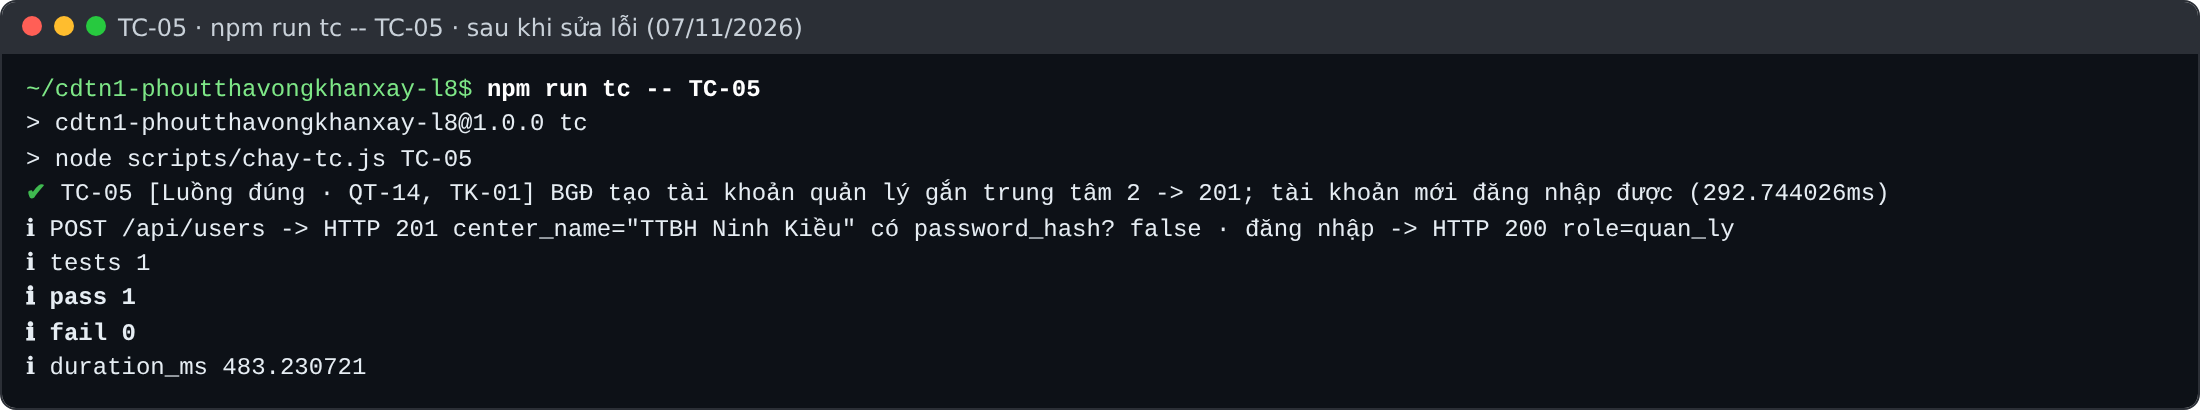
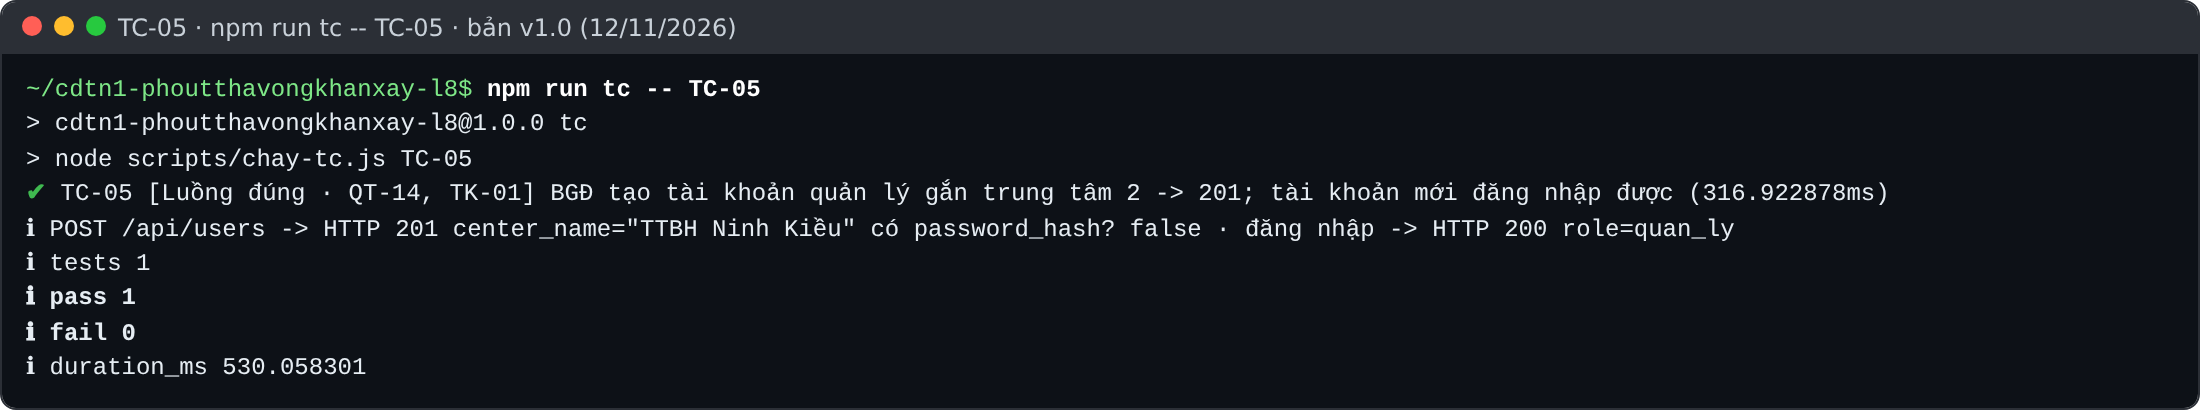
docs(bt3): Bug Log BUG-010, BUG-011; Test Report lần chạy 3 (bản v1.0, 90/90); ảnh chạy lại và ảnh minh chứng checklist

Changed region(s): [[0.2164, 0.0293, 0.3709, 0.0878], [0.7727, 0.439, 0.8345, 0.4976], [0.0927, 0.878, 0.1545, 0.9073]]

diff --git a/docs/test-report.md b/docs/test-report.md
@@ -8,19 +8,21 @@ Mẫu 8 cột theo `07_implementation/69_testing_qa_principles.md` §2 và `69a_
 **Ảnh minh chứng:** `docs/screenshots/TC-xx.png` (lần chạy sau sửa) và `TC-10-truoc-sua.png`, `TC-11-truoc-sua.png` (lần chạy đầu, FAIL);
 cả 12 case một lượt: `tc-all.png`; toàn bộ `npm test`: `npm-test.png`; `npm audit`: `npm-audit.png`.
 
-## Tổng hợp hai lần chạy
+## Tổng hợp các lần chạy
 
 | Lần chạy | Commit | Ngày | PASS | FAIL | Ghi chú |
 |---|---|---|---:|---:|---|
 | 1 – ngay sau khi viết test | [`8ab0d75`](https://github.com/Ovenvanlang/cdtn1-phoutthavongkhanxay-l8/commit/8ab0d752699b13a63498e95c323d938c56270cc9) | 07/11/2026 | 10 | **2** | TC-10 FAIL → **BUG-006** (Critical) · TC-11 FAIL → **BUG-007** (Major) |
-| 2 – sau khi sửa BUG-006…009 | `main` (sau `f474165`) | 07/11/2026 | **12** | 0 | `npm test`: 87/87 PASS (12 TC + 75 test hồi quy) |
+| 2 – sau khi sửa BUG-006…009 | [`f474165`](https://github.com/Ovenvanlang/cdtn1-phoutthavongkhanxay-l8/commit/f4741652a264e46d52e035f48ed6f1057a153ec1) | 07/11/2026 | **12** | 0 | `npm test`: 87/87 PASS (12 TC + 75 test hồi quy) |
+| 3 – bản nộp `v1.0` (sau BUG-010, BUG-011, đối chiếu tự học buổi 15) | tag `v1.0` | 12/11/2026 | **12** | 0 | `npm test`: 90/90 PASS (12 TC + 78 test hồi quy); ảnh `TC-xx.png` là lần chạy này |
 
 Phân loại (đủ 5 loại của BT3): **luồng đúng** TC-01…05 (mỗi quy tắc đã hiện thực ≥ 1 case) · **giá trị biên** TC-06/TC-07 (hai bên ranh giới
 5 phản hồi của BS-02) và TC-11 (hai bên nửa đêm giờ Việt Nam) · **dữ liệu sai** TC-08, TC-09 · **bảo mật** TC-10 (OWASP A01) · **tái lập** TC-12.
 
 > Ghi chú trung thực: ở lần chạy 1, TC-01 chưa có bước kiểm `survey_link` (vì lúc đó hệ thống chưa có đường dẫn có mã); bước này được thêm
 > cùng bản sửa BUG-006. TC-10 bước 3 (khách thật vẫn gửi được) thêm sau bản sửa ở commit `18db0de` để chắc bản sửa không làm hỏng luồng đúng.
-> Thời gian (ms) trong ảnh thay đổi theo từng lần chạy, mọi giá trị khác không đổi.
+> Từ lần chạy 3, mã truy cập khảo sát đi trong header `X-Survey-Code` thay vì `?t=` (BUG-010): các bước của TC-02/04/08/10/11 đổi cách gửi mã,
+> kết quả mong đợi giữ nguyên. Thời gian (ms) và mã truy cập ngẫu nhiên trong ảnh thay đổi theo từng lần chạy, mọi giá trị khác không đổi.
 
 ## Bảng test case (8 cột)
 
@@ -30,16 +32,16 @@ chưa khảo sát, #2 `DA_DONG` có khảo sát `DA_GUI`, #3 `DANG_XU_LY` (cả 
 
 | Mã | Tiền điều kiện | Các bước | Dữ liệu thử | Kết quả mong đợi | Ưu tiên | Kết quả thực tế | P/F |
 |---|---|---|---|---|---|---|---|
-| **TC-01**<br>Luồng đúng · QT-10, UC1 | Môi trường chuẩn; phiếu #1 `DA_DONG` chưa có khảo sát; `survey_response` có 1 dòng | 1. Đăng nhập `hethong` lấy token. 2. `POST /api/surveys` với token. 3. Đếm `survey_response` trước/sau | body `{"ticket_id":1}` | 201; `status = DA_GUI`, `score = null`; có `survey_link` dạng `/khao-sat.html?ticket=1&t=<32 hex>`; số dòng +1 | Cao | HTTP 201 · `status=DA_GUI` · `score=null` · `survey_response 1 -> 2` · `survey_link=/khao-sat.html?ticket=1&t=c0ba…211b` | **PASS** |
-| **TC-02**<br>Luồng đúng · UC2, BS-03 | Môi trường chuẩn; khảo sát của phiếu #2 đang `DA_GUI`, mã truy cập đọc từ CSDL (như trong tin nhắn gửi khách) | 1. `POST /api/surveys/2?t=<mã đúng>` không đăng nhập. 2. Đọc lại dòng khảo sát | `{"score":2,"comment":"Trả máy trễ hẹn 3 ngày"}` | 200; `status = DA_TRA_LOI`; `low_score = true` (điểm ≤ 2); CSDL lưu đúng điểm và nhận xét | Cao | HTTP 200 · `status=DA_TRA_LOI` · `low_score=true` · CSDL: `DA_TRA_LOI, score=2, comment="Trả máy trễ hẹn 3 ngày"` | **PASS** |
+| **TC-01**<br>Luồng đúng · QT-10, UC1 | Môi trường chuẩn; phiếu #1 `DA_DONG` chưa có khảo sát; `survey_response` có 1 dòng | 1. Đăng nhập `hethong` lấy token. 2. `POST /api/surveys` với token. 3. Đếm `survey_response` trước/sau | body `{"ticket_id":1}` | 201; `status = DA_GUI`, `score = null`; có `survey_link` dạng `/khao-sat.html?ticket=1#t=<32 hex>` (mã sau `#`, BUG-010); số dòng +1 | Cao | HTTP 201 · `status=DA_GUI` · `score=null` · `survey_response 1 -> 2` · `survey_link=/khao-sat.html?ticket=1#t=a81c…6827` | **PASS** |
+| **TC-02**<br>Luồng đúng · UC2, BS-03 | Môi trường chuẩn; khảo sát của phiếu #2 đang `DA_GUI`, mã truy cập đọc từ CSDL (như trong tin nhắn gửi khách) | 1. `POST /api/surveys/2` không đăng nhập, header `X-Survey-Code: <mã đúng>`. 2. Đọc lại dòng khảo sát | `{"score":2,"comment":"Trả máy trễ hẹn 3 ngày"}` | 200; `status = DA_TRA_LOI`; `low_score = true` (điểm ≤ 2); CSDL lưu đúng điểm và nhận xét | Cao | HTTP 200 · `status=DA_TRA_LOI` · `low_score=true` · CSDL: `DA_TRA_LOI, score=2, comment="Trả máy trễ hẹn 3 ngày"` | **PASS** |
 | **TC-03**<br>Luồng đúng · BS-01, BS-06 (unit) | Service báo cáo với repository giả: kỳ 01–10/10/2026 có 20 phản hồi (15 điểm ≥ 4); kỳ trước có 10 (6 điểm ≥ 4) | 1. Gọi `reportService.csat()` vai trò `bgd`. 2. Kiểm khoảng kỳ trước repository được hỏi | `from=2026-10-01`, `to=2026-10-10` | `csat_percent = 75` (15/20); kỳ trước = 21–30/09 (cùng 10 ngày, liền trước), `csat_percent = 60`; `csat_delta = 15` | Cao | `csat_percent=75` · kỳ trước `2026-09-21..2026-09-30`: `csat_percent=60` · `csat_delta=15` | **PASS** |
-| **TC-04**<br>Luồng đúng · QT-13 | Môi trường chuẩn; khảo sát phiếu #2 tồn tại | 1. Đăng nhập `bgd`. 2. `DELETE /api/surveys/2`. 3. Khách mở lại `GET /api/surveys/2?t=<mã đúng>`. 4. Đếm dòng, đọc `is_deleted` | token `bgd`; ticket 2 | DELETE 200; mở lại 404 `KHONG_TIM_THAY`; số dòng **không đổi**; `is_deleted = 1` (xóa mềm) | Cao | DELETE → HTTP 200 `{"ticket_id":2,"deleted":true}` · GET lại → HTTP 404 `KHONG_TIM_THAY` · `survey_response 1 -> 1`, `is_deleted=1` | **PASS** |
+| **TC-04**<br>Luồng đúng · QT-13 | Môi trường chuẩn; khảo sát phiếu #2 tồn tại | 1. Đăng nhập `bgd`. 2. `DELETE /api/surveys/2`. 3. Khách mở lại `GET /api/surveys/2` với `X-Survey-Code: <mã đúng>`. 4. Đếm dòng, đọc `is_deleted` | token `bgd`; ticket 2 | DELETE 200; mở lại 404 `KHONG_TIM_THAY`; số dòng **không đổi**; `is_deleted = 1` (xóa mềm) | Cao | DELETE → HTTP 200 `{"ticket_id":2,"deleted":true}` · GET lại → HTTP 404 `KHONG_TIM_THAY` · `survey_response 1 -> 1`, `is_deleted=1` | **PASS** |
 | **TC-05**<br>Luồng đúng · QT-14, TK-01 | Môi trường chuẩn; chưa có tài khoản `quanly.tt02` | 1. Đăng nhập `bgd`. 2. `POST /api/users`. 3. Đăng nhập bằng tài khoản mới | `{"username":"quanly.tt02","password":"QuanLy2026","full_name":"Quản lý Ninh Kiều","role":"quan_ly","center_id":2}` | 201; trả `center_name = "TTBH Ninh Kiều"`; **không** trả `password_hash`; tài khoản mới đăng nhập 200 | Trung bình | POST → HTTP 201 `center_name="TTBH Ninh Kiều"`, có `password_hash`? `false` · đăng nhập → HTTP 200 `role=quan_ly` | **PASS** |
 | **TC-06**<br>Biên · BS-02 (unit) | Repository giả trả đúng **5** phản hồi (4 điểm ≥ 4) | Gọi `reportService.csat()` vai trò `bgd` | `total_responses = 5` | Ngay tại ngưỡng: `warning = null` (không cảnh báo mẫu nhỏ); `csat_percent = 80` | Cao | `total_responses=5` · `csat_percent=80` · `warning=null` | **PASS** |
 | **TC-07**<br>Biên · BS-02 (unit) | Repository giả trả **4** phản hồi (3 điểm ≥ 4) – một dưới ngưỡng | Gọi `reportService.csat()` vai trò `bgd` | `total_responses = 4` | `warning = "MAU_CHUA_DU_TIN_CAY"` nhưng **vẫn trả số** `csat_percent = 75` | Cao | `total_responses=4` · `csat_percent=75` · `warning=MAU_CHUA_DU_TIN_CAY` | **PASS** |
-| **TC-08**<br>Dữ liệu sai · FR-02 | Môi trường chuẩn; khảo sát phiếu #2 `DA_GUI` | 1. `POST /api/surveys/2?t=<mã đúng>` thiếu trường `score`. 2. Đọc lại dòng khảo sát | `{"comment":"Quên chấm điểm"}` | 400 `DU_LIEU_KHONG_HOP_LE`, `field = "score"`, thông báo nêu `score`; khảo sát vẫn `DA_GUI`, `score = null` | Cao | HTTP 400 · `{"error":"DU_LIEU_KHONG_HOP_LE","message":"score là bắt buộc, phải là số nguyên từ 1 đến 5","field":"score"}` · CSDL: `DA_GUI`, `score=null` | **PASS** |
+| **TC-08**<br>Dữ liệu sai · FR-02 | Môi trường chuẩn; khảo sát phiếu #2 `DA_GUI` | 1. `POST /api/surveys/2` (`X-Survey-Code: <mã đúng>`) thiếu trường `score`. 2. Đọc lại dòng khảo sát | `{"comment":"Quên chấm điểm"}` | 400 `DU_LIEU_KHONG_HOP_LE`, `field = "score"`, thông báo nêu `score`; khảo sát vẫn `DA_GUI`, `score = null` | Cao | HTTP 400 · `{"error":"DU_LIEU_KHONG_HOP_LE","message":"score là bắt buộc, phải là số nguyên từ 1 đến 5","field":"score"}` · CSDL: `DA_GUI`, `score=null` | **PASS** |
 | **TC-09**<br>Dữ liệu sai | Môi trường chuẩn; `app_user` có 3 dòng | 1. Đăng nhập `bgd`. 2. `POST /api/users` với thân JSON bị cắt ngang. 3. Đếm `app_user` | thân thô `{"username":"x", "password":` | 400 (không phải 500), thông báo nói rõ JSON không hợp lệ, không lộ stack trace; số tài khoản không đổi | Trung bình | HTTP 400 · `{"error":"DU_LIEU_KHONG_HOP_LE","message":"Nội dung gửi lên không phải JSON hợp lệ"}` · `app_user 3 -> 3` | **PASS** |
-| **TC-10**<br>Bảo mật · OWASP A01 | Môi trường chuẩn; khảo sát phiếu #2 (của khách *Trần Thị Bình*) đang `DA_GUI`; người tấn công **không** có tin nhắn của khách, chỉ biết số phiếu tăng dần | 1. `POST /api/surveys/2` không mã. 2. `POST /api/surveys/2?t=000…0` (đoán mã). 3. Đọc lại dòng khảo sát. 4. Khách thật gửi bằng đúng đường dẫn | `{"score":1,"comment":"đánh giá giả"}`; mã đoán `"0"×32`; bước 4 `{"score":4}` | Bước 1–2 bị từ chối (400/404, không 200); khảo sát **không đổi** (`DA_GUI`, `score = null`); bước 4: 200, `score = 4` | Cao | **Lần 1 (`8ab0d75`):** không mã → **HTTP 200 `DA_TRA_LOI`**; mã đoán → 409; CSDL `status=DA_TRA_LOI, score=1` → **FAIL**, ghi **BUG-006**.<br>**Lần 2:** không mã → HTTP 400 `DU_LIEU_KHONG_HOP_LE` (field `t`) · mã đoán → HTTP 404 `KHONG_TIM_THAY` · CSDL `DA_GUI, score=null` · khách thật → HTTP 200 `DA_TRA_LOI score=4` | **FAIL → PASS** (sau BUG-006) |
+| **TC-10**<br>Bảo mật · OWASP A01 | Môi trường chuẩn; khảo sát phiếu #2 (của khách *Trần Thị Bình*) đang `DA_GUI`; người tấn công **không** có tin nhắn của khách, chỉ biết số phiếu tăng dần | 1. `POST /api/surveys/2` không mã. 2. `POST /api/surveys/2` với `X-Survey-Code: 000…0` (đoán mã). 3. Đọc lại dòng khảo sát. 4. Khách thật gửi bằng đúng đường dẫn | `{"score":1,"comment":"đánh giá giả"}`; mã đoán `"0"×32`; bước 4 `{"score":4}` | Bước 1–2 bị từ chối (400/404, không 200); khảo sát **không đổi** (`DA_GUI`, `score = null`); bước 4: 200, `score = 4` | Cao | **Lần 1 (`8ab0d75`):** không mã → **HTTP 200 `DA_TRA_LOI`**; mã đoán → 409; CSDL `status=DA_TRA_LOI, score=1` → **FAIL**, ghi **BUG-006**.<br>**Lần 2–3:** không mã → HTTP 400 `DU_LIEU_KHONG_HOP_LE` (lần 3: field `X-Survey-Code`) · mã đoán → HTTP 404 `KHONG_TIM_THAY` · CSDL `DA_GUI, score=null` · khách thật → HTTP 200 `DA_TRA_LOI score=4` | **FAIL → PASS** (sau BUG-006) |
 | **TC-11**<br>Biên · UC5 (ranh giới ngày giờ VN) | Môi trường chuẩn; đồng hồ hệ thống giả lập; khảo sát phiếu #1 và #2 `DA_GUI` | 1. Lúc `2026-10-31T16:59Z` (23:59 31/10 giờ VN) khách phiếu #1 gửi 5 điểm. 2. Lúc `2026-10-31T17:30Z` (00:30 01/11 giờ VN) khách phiếu #2 gửi 4 điểm. 3. Đọc `responded_date`. 4. `GET /api/reports/trend?year=2026` (bgd) | 2 thời điểm hai bên nửa đêm 31/10 → 01/11 giờ Việt Nam | `responded_date` = `2026-10-31` và `2026-11-01`; xu hướng tháng 10 = 1, tháng 11 = 1 | Trung bình | **Lần 1 (`8ab0d75`):** cả hai `2026-10-31`; xu hướng `{"10":2}` → **FAIL**, ghi **BUG-007**.<br>**Lần 2:** `2026-10-31` và `2026-11-01`; xu hướng `{"10":1,"11":1}` | **FAIL → PASS** (sau BUG-007) |
 | **TC-12**<br>Tái lập (integration) | Tệp CSDL tạm **trống** trên đĩa | 1. `migrate` + `seed` lần 1, đếm. 2. Chạy lại y hệt lần 2, đếm. 3. `importCsv(data/sample)` 2 lần liên tiếp, đếm sau mỗi lần | seed = 42; `data/sample/` (mẫu bộ CSV chính thức) | Lần 2: 0 migration mới, seed tự bỏ qua, số dòng y hệt lần 1; nạp CSV lần 2 không lỗi, số dòng y hệt lần 1 (không nhân đôi) | Cao | Lần 1: 6 migration, `{"ticket":1200,"survey_response":813,"technician":38,"service_center":6}` · lần 2: 0 migration, seed bỏ qua, cùng số · nạp mẫu lần 1 = lần 2 = `{"ticket":1400,"survey_response":1200,"technician":38,"service_center":6}` | **PASS** |
 
@@ -49,8 +51,8 @@ chưa khảo sát, #2 `DA_DONG` có khảo sát `DA_GUI`, #3 `DANG_XU_LY` (cả 
 |---|---|---|
 | 12/12 case có kết quả thực tế cụ thể và ảnh | Đạt | Bảng trên; `docs/screenshots/TC-01.png` … `TC-12.png` |
 | Mọi quy tắc đã hiện thực có ≥ 1 test | Đạt | Truy vết ở Test Plan mục 2 (QT-10, QT-13, QT-14, BS-01/02/03/06, TK-01 trong 12 TC; QT-15, BS-05, TK-02/03 trong bộ hồi quy) |
-| Không còn bug Critical đang mở | Đạt | BUG-006 và BUG-008 (Critical) đã sửa, có commit; `docs/bug-log.md` |
-| `npm test` PASS bằng một lệnh | Đạt | 87/87 PASS – `docs/screenshots/npm-test.png`; CI `.github/workflows/ci.yml` |
+| Không còn bug Critical đang mở | Đạt | BUG-006 và BUG-008 (Critical) đã sửa, có commit; 11 bug trong `docs/bug-log.md` đều đã đóng |
+| `npm test` PASS bằng một lệnh | Đạt | 90/90 PASS – `docs/screenshots/npm-test.png`; CI `.github/workflows/ci.yml` |
 | `npm audit` không còn lỗ hổng high/critical | Đạt (sau BUG-008) | `npm audit` → `found 0 vulnerabilities` |
 
 ## Kiểm tra bằng tay qua HTTP (bổ sung, không thay test case)

diff --git a/docs/bug-log.md b/docs/bug-log.md
@@ -16,6 +16,8 @@ Phân loại theo cây quyết định của buổi 13: (1) không dùng đượ
 | **BUG-007** | **Major** | Phản hồi 00:00–06:59 giờ VN bị tính sang ngày/tháng trước | **TC-11** | `5520988` |
 | **BUG-008** | **Critical** | body-parser 2.3.0 có lỗ hổng DoS đã công bố | checklist bảo mật mục 7 (`npm audit`) | `7ce09b2` |
 | **BUG-009** | **Minor** | Mọi phản hồi để lộ `X-Powered-By: Express` | checklist bảo mật mục 5 (`curl -i`) | `f474165` |
+| **BUG-010** | **Major** | Mã truy cập khảo sát nằm trong URL (`?t=`) → vào log máy chủ/proxy và lịch sử trình duyệt | đối chiếu tự học buổi 15 (`46a` §1) | `8c6d915` |
+| **BUG-011** | **Minor** | Payload token chứa họ tên nhân viên (ai cầm token cũng đọc được) | đối chiếu tự học buổi 15 (`46a` §3), giải mã thử token | `a1c38ed` |
 
 > **Ghi chú trung thực về BUG-002 và BUG-003:** hai lỗi này được sửa chung trong commit `4d42ba8` (29/10/2026, BT2) – trước khi
 > áp dụng quy tắc "mỗi bug một commit `fix(...) (BUG-xx)`" của buổi 13–14. Em không viết lại lịch sử Git đã nộp ở tag `v0.2`
@@ -120,3 +122,25 @@ Phân loại theo cây quyết định của buổi 13: (1) không dùng đượ
 | 5. Nguyên nhân | Express bật header `X-Powered-By` theo mặc định; `createApp` trong `src/backend/app.js` chưa tắt (chỉ mới lo phần thân phản hồi lỗi trong `error-handler.js`) |
 | 6. Cách sửa | `app.disable('x-powered-by')` ngay sau khi tạo app, trước mọi middleware, nên áp dụng cho cả tệp tĩnh và lỗi 404 |
 | 7. Commit và xác nhận | https://github.com/Ovenvanlang/cdtn1-phoutthavongkhanxay-l8/commit/f4741652a264e46d52e035f48ed6f1057a153ec1 · test "BUG-009: phản hồi không để lộ công nghệ máy chủ qua header X-Powered-By" kiểm 3 loại phản hồi (200, 401, 404) → PASS; `curl -si localhost:3000/health` không còn dòng `X-Powered-By` |
+
+## BUG-010 · Major — Mã truy cập khảo sát nằm trong query string của URL
+| Dòng | Nội dung |
+|---|---|
+| 1. Mã và mức độ | BUG-010 · Major. Câu 1 của cây quyết định: hệ thống vẫn dùng được, dữ liệu không sai, và ở bản chạy hiện tại **chưa có thành phần nào ghi URL** (không có log truy cập, không proxy) nên chưa lộ thật → không phải Critical. Câu 2: chức năng bảo vệ khảo sát (BUG-006) bị yếu đi – khi đặt sau proxy hoặc bật log truy cập, ai đọc log lấy được mã và gửi điểm thay khách → Major |
+| 2. Phát hiện bởi | Đối chiếu mã với tự học buổi 15 (`46a` §1 "Token, mật khẩu, khoá **không bao giờ** trong query string") ngày 12/11/2026; checklist bảo mật mục 1 và 6 |
+| 3. Triệu chứng | Đường dẫn gửi khách là `/khao-sat.html?ticket=8&t=<mã>`; trang gọi `GET/POST /api/surveys/8?t=<mã>` – mã xuất hiện trong mọi URL gửi lên máy chủ và trong lịch sử trình duyệt |
+| 4. Cách tái lập | Ở commit `1210a5d`: `POST /api/surveys` (vai trò he_thong) → xem `survey_link`; mở trang bằng link đó với DevTools → tab Network: request `/api/surveys/8?t=…` chứa mã; `curl -s -X POST "localhost:3000/api/surveys/8?t=<mã>" -d '{"score":5}'` → 200 (API chấp nhận mã trong URL) |
+| 5. Nguyên nhân | Bản sửa BUG-006 chọn cách nhanh nhất là đọc mã từ `req.query.t` (route) và `URLSearchParams(location.search)` (trang), coi mã như một tham số lọc bình thường; thiết kế không tính tới việc URL (khác với header/thân request) bị ghi lại ở log máy chủ, proxy và lịch sử trình duyệt |
+| 6. Cách sửa | Link gửi khách đổi thành `/khao-sat.html?ticket=<id>#t=<mã>` (phần sau `#` trình duyệt không gửi lên máy chủ); API nhận mã qua header `X-Survey-Code`, mã trong `?t=` bị từ chối 400 kể cả khi đúng; trang `khao-sat` đọc mã từ `#t`, giữ trong `sessionStorage` của tab và xóa khỏi thanh địa chỉ; `client.mjs` cho phép header riêng. Cập nhật test, TC-01/02/04/08/10/11, `chay-luong`, API docs, `.http` (TD-37) |
+| 7. Commit và xác nhận | https://github.com/Ovenvanlang/cdtn1-phoutthavongkhanxay-l8/commit/8c6d915027dbab655cb06a7220d16f5b7b739718 · test "BUG-006, BUG-010: … mã trong URL -> 400" PASS; TC-10 PASS (không mã → 400 field `X-Survey-Code`, mã đoán → 404, khách thật → 200); Playwright: mở link `#t=` → form hiện, thanh địa chỉ còn `?ticket=1`, request API không có mã trong URL (header `X-Survey-Code`), tải lại trang vẫn mở được |
+
+## BUG-011 · Minor — Payload của token đăng nhập chứa họ tên nhân viên
+| Dòng | Nội dung |
+|---|---|
+| 1. Mã và mức độ | BUG-011 · Minor – token chỉ nằm trong trình duyệt của chính nhân viên đó, họ tên nhân viên không phải dữ liệu khách hàng, nghiệp vụ vẫn đúng; nhưng trái quy tắc "payload chỉ id, vai trò, thời hạn" (`46a` §3) và sẽ lộ tên nếu token bị chép ra ngoài |
+| 2. Phát hiện bởi | Đối chiếu tự học buổi 15 (`46a` §3, bảng "JWT — bốn lỗi phổ biến") ngày 12/11/2026: giải mã thử phần giữa của token đăng nhập |
+| 3. Triệu chứng | `echo <phần giữa token> \| base64 -d` → `{"sub":2,"name":"Quản lý trung tâm TTBH Quận 10","role":"quan_ly","center_id":1,…}` – đọc được không cần khóa |
+| 4. Cách tái lập | Ở commit `8c6d915`: `POST /api/auth/login` (`quanly.tt01`), lấy `data.token`, giải mã base64url phần thứ hai |
+| 5. Nguyên nhân | `auth.service.issueToken` đưa cả `user.full_name` vào payload để giao diện tiện hiển thị, coi payload như dữ liệu kín; thực ra payload chỉ được **ký** (chống sửa), không được **mã hóa** (không chống đọc). Giao diện cũng không đọc tên từ token (lấy từ `data.user` khi đăng nhập), nên trường này thừa |
+| 6. Cách sửa | Bỏ `name` khỏi payload (còn `sub, role, center_id, iat, exp`); `verifyToken` vẫn trả tên đọc từ CSDL nên `/api/auth/me` không đổi. Cùng đợt rà soát (không phải bug, ghi ở TD-38): khóa `AUTH_SECRET` bắt buộc ≥ 32 ký tự, thời hạn token mặc định 1 giờ, `/health` kiểm cả CSDL – commit `8235ac3` |
+| 7. Commit và xác nhận | https://github.com/Ovenvanlang/cdtn1-phoutthavongkhanxay-l8/commit/a1c38ed0a26fd5b4c000eda1bddfa45127b3eb11 · test "BUG-011: phần payload của token … chỉ có id, vai trò, trung tâm, thời hạn" PASS (kiểm danh sách khóa, không có họ tên, tên vẫn có sau xác thực); `npm test` 90/90 ở bản `v1.0` |

diff --git a/docs/test-plan.md b/docs/test-plan.md
@@ -22,7 +22,7 @@ kiểm soát truy cập (OWASP A01) · chạy lại migration/seed/nạp CSV.
 | API / hệ thống (Express thật + SQLite trong bộ nhớ, gọi HTTP) | 8 | TC-01, 02, 04, 05, 08, 09, 10, 11 | `node:test` + `fetch` |
 
 Ngoài 12 TC trong Test Report còn **bộ hồi quy tự động** (`tests/*.test.js`) chạy cùng lệnh `npm test`: 69 test lúc lập kế hoạch,
-**75 test sau khi sửa BUG-006…009** (mỗi bug thêm test hồi quy riêng) → `npm test` chạy tổng cộng **87 test**.
+**75 test sau khi sửa BUG-006…009**, **78 test ở bản nộp `v1.0`** (thêm test cho BUG-010, BUG-011, khóa `AUTH_SECRET` và `/health`) → `npm test` chạy tổng cộng **90 test**.
 Mỗi bug đã sửa có ít nhất 1 test hồi quy (`docs/bug-log.md`, dòng 7).
 
 **Đủ 5 loại BT3:** luồng đúng ×5 (TC-01 → TC-05) · giá trị biên ×3 (TC-06/TC-07 hai bên ranh giới 5 phản hồi của BS-02; TC-11 ranh giới nửa đêm giờ Việt Nam) ·
